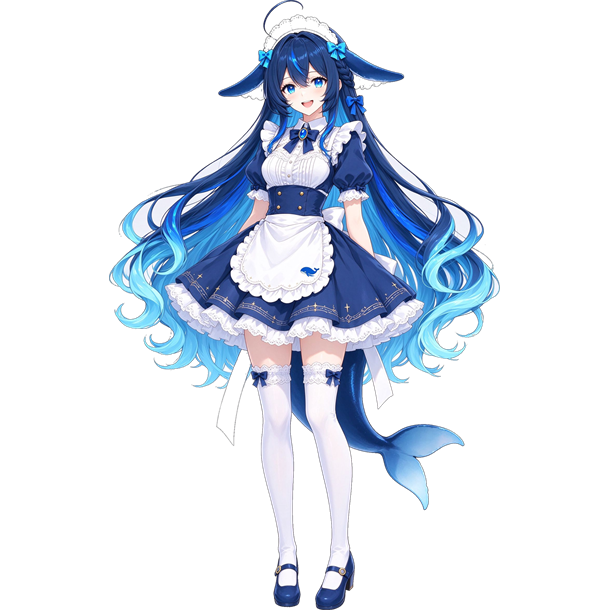
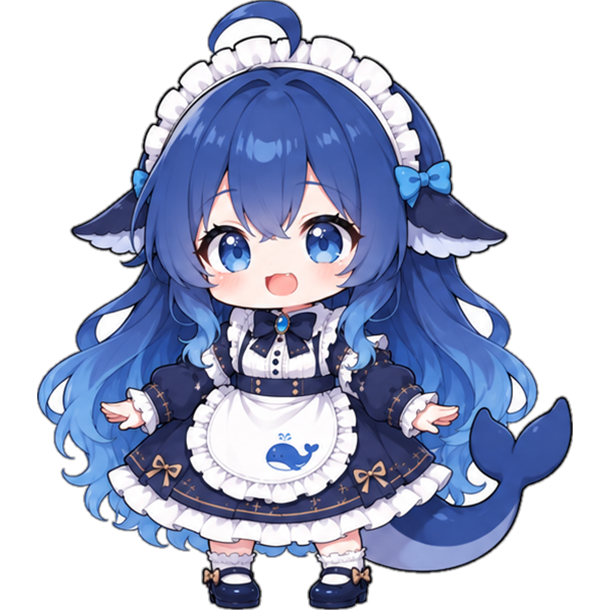
feat: 立绘换成 Q 版（大头）正面视图，四份文档同步几何与素材口径
用户希望本地显示的是小巧的 Q 版鲸鱼娘。素材改为从一张 Q 版三视图设定表
（1448×1086）里裁出的正面视图：列剖面定左右分界、行剖面定下限，抠背景用
「最亮通道 > 170 且 通道差 < 40」——阈值降到 170 是为了不啃掉鲸尾渐变，
通道差收到 40 是为了把脚下浅灰投影整块去掉（上一版的 180/50 会把投影留着）。
这张设定表本身没有水印，而水印探测器的取样假设「右下角只是平滑背景」在这里
不成立（会误把鲸尾当水印涂掉），所以这一步直接禁用。

- src/widget/whale-girl.png：610×610 RGBA，322 kB → 551 kB；不透明包围盒
  391×610 → 536×610，长宽比 0.641 → 0.879
- 形象变宽后在 84×96 的渲染盒里与余额卡片只留 4 px，用无头 Edge + CDP 在
  三档视口实测确认不重叠、不溢出；「脸只有十几像素」这条限制不再成立
- docs/verification.md：新增第十三节记录测量与四档阈值对照，旧第六节的数字
  标注为历史（属上一版素材），没做/没验的顺延为第十四节
- PROVENANCE.md：处理三步改写为裁正面视图 / 抠背景 / 裁切 contain，上一版
  全身立绘的做法保留为引用块并注明仍在 git 历史里
- README.md、docs/limitations.md：口径改为 Q 版，新增「换素材必须重量不透明
  包围盒」与体积条目（551 kB 未做有损压缩）

验证：npm test 138/138 通过，scripts/e2e-check.js 39/39 通过，npm pack 产物
含且仅含这一张形象图。

diff --git a/docs/verification.md b/docs/verification.md
@@ -149,6 +149,10 @@ Authentication Fails (governor)
 
 ## 六、发布产物从零验证（`npm pack` → 解包 → 直接启动）
 
+> ⚠ 本节数字属**第十二轮当时**（立绘还是 322 kB 的那一版）。素材在第十三轮换成了 Q 版，
+> 包体与 png 字节数已变，**当前数字见第十三节**；本节其余结论（包内容清单、不含 dev-only 目录、
+> 解包能直接起服务）与素材无关，仍然成立。
+
 验收标准「按 README 从零安装后可以启动」是这么验的：把包打包、解到临时目录、在解出来的目录里起服务。
 
 ```
@@ -619,7 +623,79 @@ junction 本身恰好被 `node_modules/` 这条规则挡住，但整个目录仍
 **没做的事**：没重装到 DSH 客户端重拍真机 —— 本轮动的只有素材、`error` 回调和一条 CSS 规则，
 注入链路与余额口径一行没碰；`.dshw-figure` 的 96 px 形象盒同样没动。
 
-## 十三、没做/没验的
+## 十三、换成立绘的 Q 版（大头）版本：从三视图设定表里裁正面
+
+用户指令「把我自己本地换成一个小的q版的鲸鱼娘」，附一张自己持有的 **Q 版三视图设定表**
+（1448×1086，RGB 无 alpha，背景近白 `#FCFCFC`）。这一轮只换素材字节，`skin.js` / `whale.js` / CSS 一行没动。
+
+**1. 先量分界，不目测裁图。** 表里上排是同一角色的三个视图、下排是细节特写格，必须先确认边界：
+
+- 行剖面（每 12 px 统计一次全宽非背景像素）→ `y=612` 与 `y=623` 两行**全为 0**，这就是上排与细节格的分界；
+  第一次量时把下限取到 `0.60×h=651`，结果细节格的边框被当成内容，三个视图「连成一片、没有空隙」，
+  是个假结论 —— 修正后取 `y=610`。
+- 列剖面（在上排带内每 8 px 统计一次）→ 只有 4 段 ≥8 px 的全空列：
+  `0..10`、`537..550`、`951..961`、`1438..1447`，据此切出正面 `x∈[11,536]`、侧面 `[551,950]`、背面 `[962,1437]`。
+  取正面，四边各留几像素余量（洪泛要从纯背景边开始扩散），裁出 **540×611**。
+- 右下角逐块看过：这张表**没有水印**（与上一版素材不同，那次右下角有「豆包AI生成」）。
+
+**2. 抠图阈值是量出来的，四档对照。** 背景、脚下投影、鲸尾自身的浅色暗面三者在颜色上两两接近，
+只有「通道差」这一维能把后两者分开（实测取样）：
+
+| 取样 | 颜色 | 最亮通道 | 通道差 |
+| --- | --- | --- | --- |
+| 背景 | `#FCFCFC` | 253 | 1 |
+| 投影（亮部/核心） | `#E3E2EE` / `#CDCCE2` | 238 / 226 | 12 / 22 |
+| 鲸尾暗面 | `#868ABE` / `#95A5D8` | 191 / 216 | **56 / 67** |
+
+| 判据（最亮通道 >, 通道差 <） | 洪泛吃掉 | 结果 |
+| --- | --- | --- |
+| `180, 50` | 134,239 px | 尾巴下缘被啃出**硬咬痕**（`#BBB6D0` 那类浅色通道差只有 26，落进判据里） |
+| `225, 22` | 129,436 px | 尾巴完整，但脚下投影**整块留着**（亮部被抠、暗部剩下一片白） |
+| `150, 45` | 134,715 px | 尾巴完整、投影干净 |
+| **`170, 40`（采用）** | **134,329 px** | 尾巴渐变完整、投影整块消失，且与尾巴暗面之间留了 15 的通道差余量 |
+
+同一档判据用两种实现各跑一遍（编译 C# 的 4 邻域洪泛 vs `scipy.ndimage.label` 的 8 邻域），
+洪泛像素数**都是 134,329**，两边对得上才继续。
+
+**3. 一个当场造成的破坏（已回退重做）**：复用了上一版的处理脚本，其中「右下角水印探测」这一步
+在这张图上**误把鲸尾当成墨迹**，用四角双线性插值涂掉了 `(344,507)-(515,610)` 里的 **7,970 px**。
+发现方式是输出图右下角出现一块与周围对不上的灰斑，回源图放大比对才确认那是尾巴的暗面。
+修法是**把这一步禁掉**（这张表本来就没有水印），而不是去调探测器的阈值 —— 那个探测器假设
+「右下角只可能是平滑背景」，对带大尾巴的角色图根本不成立。第二遍跑出的报告里 `no-watermark` 一行就是它被禁掉的证据。
+
+**4. 产出与几何**：`src/widget/whale-girl.png` = 610×610 RGBA / **551,277 B**，
+不透明包围盒 `(37,0)-(572,609)` → **536×610，长宽比 0.879**（上一版全身是 391×610 → 0.641）。
+
+**5. 浏览器实测**（browser-use 本轮仍不可用：`navigate_page` 照 `isDestroyed` 报错；改用无头 Edge + CDP，
+`Emulation.setDeviceMetricsOverride` 造视口，并注入 `animation:none` 冻住 `.dshw-float` 再量）：
+
+| 视口 | 根盒 | 形象盒 `img` | 不透明部分渲染 | 卡片盒 | 横向溢出 |
+| --- | --- | --- | --- | --- | --- |
+| 1280×800 | 128×128 | 128×96 | **84×96** | 82×42 | 0（`scrollWidth==clientWidth`） |
+| 380×700 | 128×128 | 128×96 | 84×96 | 82×42 | 0（365/365） |
+| 320×640 | 128×128 | 128×96 | 84×96 | 82×42 | 0（305/305） |
+
+三档数字完全一致，说明这次换图没有把布局推离原来的锚点：卡片底边在 1280 档是 `y=684`，
+形象盒顶边 `y=688`，**留 4 px 不重叠**；`imgHidden=false`、`natural=610x610`（素材真的加载到了，不是靠 200 状态码推断）。
+横向比上一版宽了 38%，但 84 px 仍小于根盒 128 px，左右各余 22 px。
+
+**6. 回归**：`npm test` **138/138**、`npm run test:e2e` **39/39**（素材断言两条前缀都过：
+`/widget/whale-girl.png` 与 `/dsh-whale/widget/whale-girl.png` 均 200 / `image/png` / 551,277 B）。
+`npm pack --dry-run` = **37 files / 646.8 kB / unpacked 791.7 kB**，立绘 551.3 kB 是最大的一项
+（上一版是 415.6 kB / 立绘 322.3 kB）。
+
+**踩到的工具坑（记一笔，省下次的时间）**：给 CDP 拼 `Runtime.evaluate` 表达式时，我把模板字符串的
+`${` 写进了普通字符串拼接（`'JSON.stringify((${' + fn + '})())'`），页面回的是
+`SyntaxError: Unexpected token '{'`，`lineNumber: 0, columnNumber: 17`。这个位置看着像 CDP 或浏览器的问题，
+实际是我自己多打了一个 `$`；判据是把同一个函数体用正确拼法发到**同一个 target** 上，立刻拿到结果。
+顺带：同步表达式不需要 `awaitPromise`。
+
+**没做的事**：没重启桌面客户端复拍真机（本轮只改素材字节）；没做有损压缩（不引入图像依赖，
+要瘦身就降画布尺寸，见 `limitations.md` §4）。
+
+
+
+## 十四、没做/没验的
 
 见 [`limitations.md`](limitations.md)。本轮之后仍然欠着的：
 
@@ -632,5 +708,6 @@ junction 本身恰好被 `node_modules/` 这条规则挡住，但整个目录仍
   tar.gz 依赖，摘它要动 `node_modules`，风险比测出来的收益大）。
 - 带真实密钥的**独立服务**链路仍未跑通（本机没有可用 key；真机那条是走宿主服务，不是走 key）。
 - **换立绘之后没有重开桌面客户端复拍真机截图**。安装是 junction（`<profile>/node_modules/dsh-whale-widget-proto`
-  → 本目录），新素材已经在客户端能看到的那份目录里；本轮改的只有素材字节与断言，注入链路与 CSS 一行没动，
-  而真机重启一次要 75–92 秒。形象本身在真浏览器里验过（第六节末、第十一节、第十二节），**真机那一屏仍属未验**。
+  → 本目录），新素材已经在客户端能看到的那份目录里；第十二、十三两轮改的都只有素材字节（第十三连代码与 CSS 都没动），
+  注入链路与余额口径一行没碰，而真机重启一次要 75–92 秒。形象本身在真浏览器里验过（第六节末、第十一节、
+  第十二节、第十三节的三档 CDP 实测），**真机那一屏仍属未验**。

diff --git a/PROVENANCE.md b/PROVENANCE.md
@@ -80,20 +80,33 @@ README/`package.json`/`cordis.patch.yml` 内容，副本留在 `.refs/`（仅本
 
 | 素材 | 来源 | 分发 |
 | --- | --- | --- |
-| `src/widget/whale-girl.png`（610×610 RGBA，透明底，322 kB） | 本项目作者用 AI 生成的角色设定图（全身正面），再经下述三步处理 | 随 MIT 分发，是仓库**唯一**的一张形象图（`public/favicon.svg` 是演示页图标，与形象无关） |
+| `src/widget/whale-girl.png`（610×610 RGBA，透明底，551 kB；不透明部分 536×610） | 本项目作者用 AI 生成的**Q 版三视图设定表**（1448×1086）里的正面视图，再经下述三步处理 | 随 MIT 分发，是仓库**唯一**的一张形象图（`public/favicon.svg` 是演示页图标，与形象无关） |
 | ~~上游 `assets/DSniang1.png`~~ | 曾经 `api.github.com/repos/MeteorNOX/DeepSeek-Balance-Whale-Widget/git/blobs/f46b232152ede43630407f3a38de29c07a91be91` + `Accept: application/vnd.github.raw` 下载（2026-10-11），当时放在 `src/widget/whale-girl.png` 做本地对照 | **已于 2026-10-12 从本机删除**。从未提交进仓库、从未出现在 `npm pack` 产物里；现在那张 png 与它没有像素关系 |
 
-自备立绘的处理过程（脚本是临时的，不入库，做法记在这里。两张 AI 原始出图与上游对照图已于 2026-10-12
-从本机删除，所以这三步现在只能对着结果复核，没法重跑一遍）：
+当前这张 Q 版的处理过程（脚本是临时的，不入库；**源表也没有入库**，只有裁出来的这一张进仓库）：
 
-1. **去水印**：右下角那块「亮度和它周围平滑背景的差 > 12」的墨迹框出来（实测框 `(1132,2263)-(1696,2412)`，
-   6975 px），整块用四角的双线性插值填回去 —— 背景是平滑渐变，填完看不出接缝。
-2. **抠背景**：从画框四边做连通洪泛，判据是「最亮通道 > 180 且 最亮-最暗 < 50」。
-   连通性是这里的关键：白围裙、白过膝袜同样亮且低饱和，但它们被深色描边包住，洪泛从边界进不去，
-   所以不会被误抠；脚下那片投影因为亮度仍高于 180 且近乎中性，被一并抠掉。
-3. **裁切 + contain**：按不透明像素的包围盒（1499×2337）裁掉空白，等比放进 610×610 画布、底边居中，
+1. **裁出正面视图**：设定表上排是同一角色的三个视图，按列做「非背景像素计数」找空白列，
+   切出三段：正面 `x∈[11,536]`、侧面 `x∈[551,950]`、背面 `x∈[962,1437]`；上排内容与下面的细节特写格
+   之间有一条全空行（`y=612..623`），据此把裁切下限定在 `y=615`。取的是**正面**那一段，左右各留几像素，
+   让下一步的洪泛能从纯背景边上开始扩散。
+2. **抠背景**：从画框四边做连通洪泛，判据是「最亮通道 > 170 且 最亮-最暗 < 40」。
+   连通性是这里的关键：白围裙、白蕾丝头饰同样亮且低饱和，但它们被深色描边包住，洪泛从边界进不去。
+   **阈值是量出来的，不是拍的**：`(180,50)` 会把**鲸尾自身的浅色暗面**（`#BBB6D0` 一类，最亮通道 208、
+   通道差 26）当背景吃掉，尾巴下缘出现硬咬痕；`(225,22)` 尾巴完整但脚下投影整块留着。
+   投影是「亮且近中性灰」（`#E3E2EE`、`#CDCCE2`，通道差 10~22），尾巴暗面是「偏蓝」（通道差 55~68），
+   两者在「通道差」这一维上分得开 → 取 `(170,40)`，实测尾巴渐变完整、投影整块消失。
+   这一步**没有做去水印**：这张表右下角是干净的（逐块看过），而且探测器的取样区
+   （右下 1/3 × 底部 15%）正好被鲸尾占住，早先一次没关掉它，直接把尾巴当成墨迹用双线性插值涂掉了
+   —— 探测器假设「右下角只可能是平滑背景」，这个假设在带大尾巴的角色图上不成立。
+3. **裁切 + contain**：按不透明像素的包围盒（526×599）裁掉空白，等比放进 610×610 画布、底边居中，
    对齐 `.dshw-figure` 的 `object-position: bottom center`。边缘做 3×3 alpha 软化，并在预乘域里
    减掉 `(1-a)×局部背景` 解掉描边上的浅色光晕。
+
+> 上一版形象（同一角色的全身「御姐」比例立绘，610×610 / 322 kB，不透明部分 391×610）已于 2026-10-12
+> 被这张 Q 版替换，但仍留在 git 历史的首个提交里。它的做法与上面同构，差别是：源图是 1723×2433 的
+> 全身正面单图（不需要裁视图），右下角有一块「豆包AI生成」水印，所以第 1 步之前多做一次
+> 「墨迹框 + 四角双线性插值」的抹除（实测框 `(1132,2263)-(1696,2412)`，6975 px），
+> 洪泛阈值当时用 `(180,50)` 就够（那张图没有贴着背景的浅色大面积渐变）。
 
 结论：本项目对外以 MIT 授权**自己写的代码 + 自己生成的这张图**。
 换形象时把图放成 `src/widget/whale-girl.png` 即可（`skin.js` 的 `CHARACTER_URL` 指向它）；

diff --git a/docs/limitations.md b/docs/limitations.md
@@ -76,15 +76,17 @@
 所以默认口径下卡片上的余额与今日已用不是同一个数。所以**同一天内充值后再消费，得到的今日已用会偏小**；
 它不是官方账单，别拿去对账。账本保留 365 天 / 2 万条，超出按最早的日子裁掉。
 
-## 4. 美术素材：仓库自带一张自己生成的立绘，上游那张没进仓库
+## 4. 美术素材：仓库自带一张自己生成的 Q 版立绘，上游那张没进仓库
 
-形象 `src/widget/whale-girl.png`（610×610 RGBA、透明底、322 kB）是**本项目作者自己用 AI 生成**的
-角色设定图，处理后随 MIT 分发。参考项目那张 `assets/DSniang1.png` 的上游写明它的 `assets/**`
+形象 `src/widget/whale-girl.png`（610×610 RGBA、透明底、551 kB，不透明部分 536×610）是
+**本项目作者自己用 AI 生成**的 Q 版（大头）角色设定图里裁出的正面视图，处理后随 MIT 分发。
+参考项目那张 `assets/DSniang1.png` 的上游写明它的 `assets/**`
 是 AI 生成、出处不可考，**不在其 MIT 范围内**、不授予再许可 —— 本项目早期确实取过一份做本地对照，
 但**从未提交进仓库、从未随包分发，对照完已于 2026-10-12 从本机删除**，现在这张图与它没有像素关系。要点：
 
-- 处理三步（去水印 / 连通洪泛抠背景 / 裁切 contain）的参数与踩到的判断依据记在
-  [`PROVENANCE.md`](PROVENANCE.md)「美术素材的许可边界」，脚本本身是临时的、不入库。
+- 处理三步（从三视图设定表里裁出正面 / 连通洪泛抠背景 / 裁切 contain）的参数与踩到的判断依据记在
+  [`PROVENANCE.md`](PROVENANCE.md)「美术素材的许可边界」，脚本本身是临时的、不入库；
+  **源表（1448×1086）也没入库**，仓库里只有裁出来这一张。
 - **抠图是脚本做的，不是人肉描的**：边缘靠 3×3 alpha 软化 + 预乘域去光晕，放大看仍有轻微锯齿，
   挂件这个尺寸（96 px 高）看不出来，但要拿去印海报得重做。
 - **形象图只有这一张**，没有备用立绘。取不到时 `whale.js` 在 `error` 事件里把形象层 `hidden` 掉、
@@ -93,8 +95,16 @@
   `[hidden]` 的 UA 规则，不写就等于没隐藏。）
 - 换形象的成本很低：放同名 png，或改 `CHARACTER_URL`；按需微调 `.dshw-figure` / `.dshw-card` 的几何即可，
   逻辑层完全不依赖这张图（素材断言在 `scripts/e2e-check.js` 与 `test/plugin.test.js`，各断言 png 两条前缀）。
-- 立绘目前是**全身**装进 96 px 高的形象盒，脸只有十几像素。想让形象更大可以只改
-  `.dshw-figure` 的 `height`（96 → 128，即占满根盒），代价是卡片/菜单/气泡的三个 `bottom` 值要一起挪。
+- **换素材必须重量不透明包围盒**，同一套 `bottom:` 数值对不同留白的图效果完全不同。
+  当前这张 Q 版长宽比 0.879，在 128×96 的形象盒里渲染成 **84×96 px**（上一版全身立绘是 0.641 → 61×96 px），
+  也就是横向宽了 38%；卡片底边与形象盒顶边之间仍留 4 px，没有互相压到（实测见 `verification.md` 第十三节）。
+  再换图时如果横向更满，要先确认它不会顶到根盒左右边界（根盒 128 px 宽）。
+- 立绘现在是**大头身**，脸在 96 px 盒里约占 40 px 高，之前那版全身图「脸只有十几像素」的限制不再成立。
+  想让形象更大仍然只需改 `.dshw-figure` 的 `height`（96 → 128，即占满根盒），
+  代价是卡片/菜单/气泡的三个 `bottom` 值要一起挪。
+- 这张图是 `npm pack` 产物里**最大的一项**（551 kB，占解包后体积的大头），比上一版 322 kB 大 71%：
+  Q 版横向铺得更满、发丝渐变更多。**没有做有损压缩**（也没引入任何图像依赖），要瘦身最省事的是
+  把画布降到 512×512 或 448×448，代价是描边上的软化边缘会更硬一点。
 - `package.json` 仍带 `private: true`：它是个原型，不打算当正式包发布，与许可无关。
 - 未做：没有运行时联网取素材的逻辑，形象只有本地这一份。
 

diff --git a/README.md b/README.md
@@ -34,10 +34,17 @@ npm start                        # 零依赖，连 npm install 都不用
 无运行依赖、无构建步骤、无包管理器 lockfile 之外的东西 —— `dependencies` 与 `devDependencies` 都是空的。
 
 **关于这只鲸鱼长什么样**：`src/widget/whale-girl.png` 是**仓库里唯一的一张形象图**（`public/favicon.svg`
-是演示页的标签页图标，与形象无关）—— 深蓝渐变长发、女仆装、
-鲸鳍耳加一条鲸尾的全身立绘，由本项目作者用 AI 生成，再做了去水印与抠透明处理（610×610 RGBA，322 kB），
-**随下面的 MIT 一起分发**。参考项目那张 `assets/DSniang1.png` 没有被沿用，理由见
+是演示页的标签页图标，与形象无关）—— 深蓝渐变长发、女仆装、鲸鳍耳加一条鲸尾的**Q 版（大头）全身立绘**，
+由本项目作者用 AI 生成，再从一张三视图设定表里裁出正面视图、抠成透明底并去掉脚下投影
+（610×610 RGBA，551 kB；不透明部分占 536×610，长宽比 0.879），**随下面的 MIT 一起分发**。
+参考项目那张 `assets/DSniang1.png` 没有被沿用，理由见
 [`PROVENANCE.md`](PROVENANCE.md) 的「美术素材的许可边界」。想换成你自己的形象，二选一：
+
+- 把你的图放成 `src/widget/whale-girl.png`（同样底边对齐、透明底，效果最接近）；
+- 或改 `src/widget/skin.js` 的 `CHARACTER_URL` 指向任意图片 URL —— 交互逻辑不依赖这张图。
+
+立绘取不到时（路径写错、素材被删）挂件会把形象层整层藏掉并在 console 警告一次，只留余额卡片，
+不会留一个裂图图标 —— 仓库里没有第二张形象图可回落。
 
 - 把你的图放成 `src/widget/whale-girl.png`（同样底边对齐、透明底，效果最接近）；
 - 或改 `src/widget/skin.js` 的 `CHARACTER_URL` 指向任意图片 URL —— 交互逻辑不依赖这张图。
@@ -217,7 +224,7 @@ CPU 密集地装载 profile 里的 188 个模块（从 121 MB 的 `app.asar` 读
 ```
 src/core/      money / layout / ledger / balance / jsonpath —— 纯逻辑，浏览器与 Node 共用
 src/widget/    whale / skin / state / audio / dsh-source    —— 渲染与手势，DOM 胶水
-               whale-girl.png —— 鲸鱼娘立绘（本项目自带素材，随 MIT 分发；仓库里唯一的一张形象图）
+               whale-girl.png —— 鲸鱼娘 Q 版立绘（本项目自带素材，随 MIT 分发；仓库里唯一的一张形象图）
 src/server/    app / config / static / store / env / start  —— handler 与接线
                providers/{deepseek,mock}、dsh-routes.js
 public/        index.html（演示页）、app.css、demo.js、favicon.svg、dsh.html（模拟宿主）
